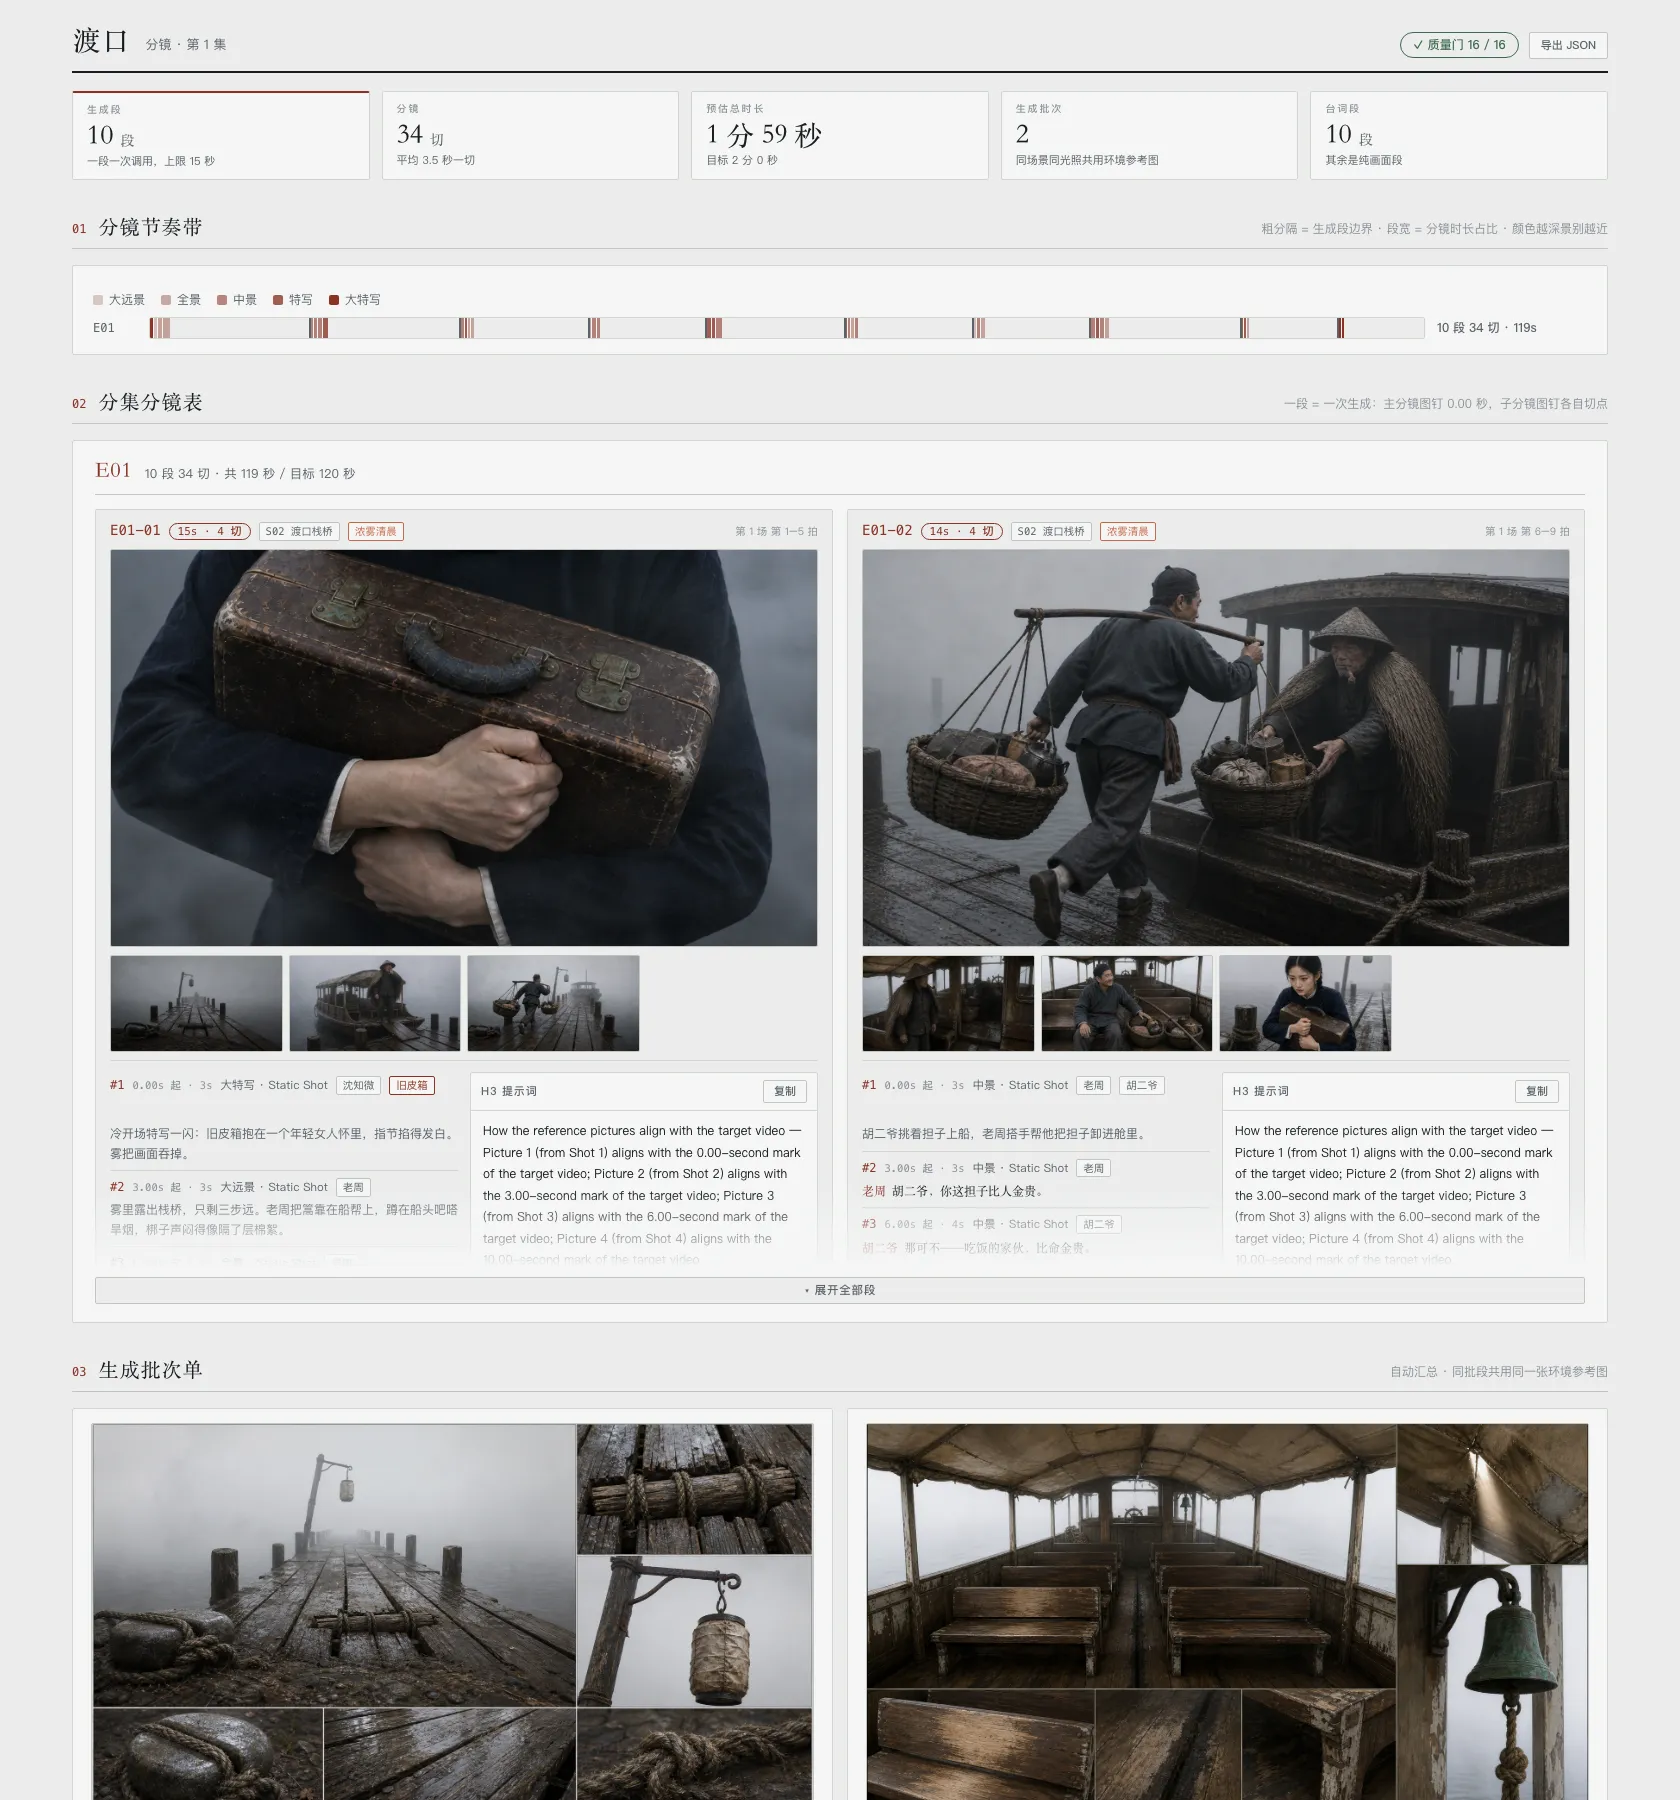
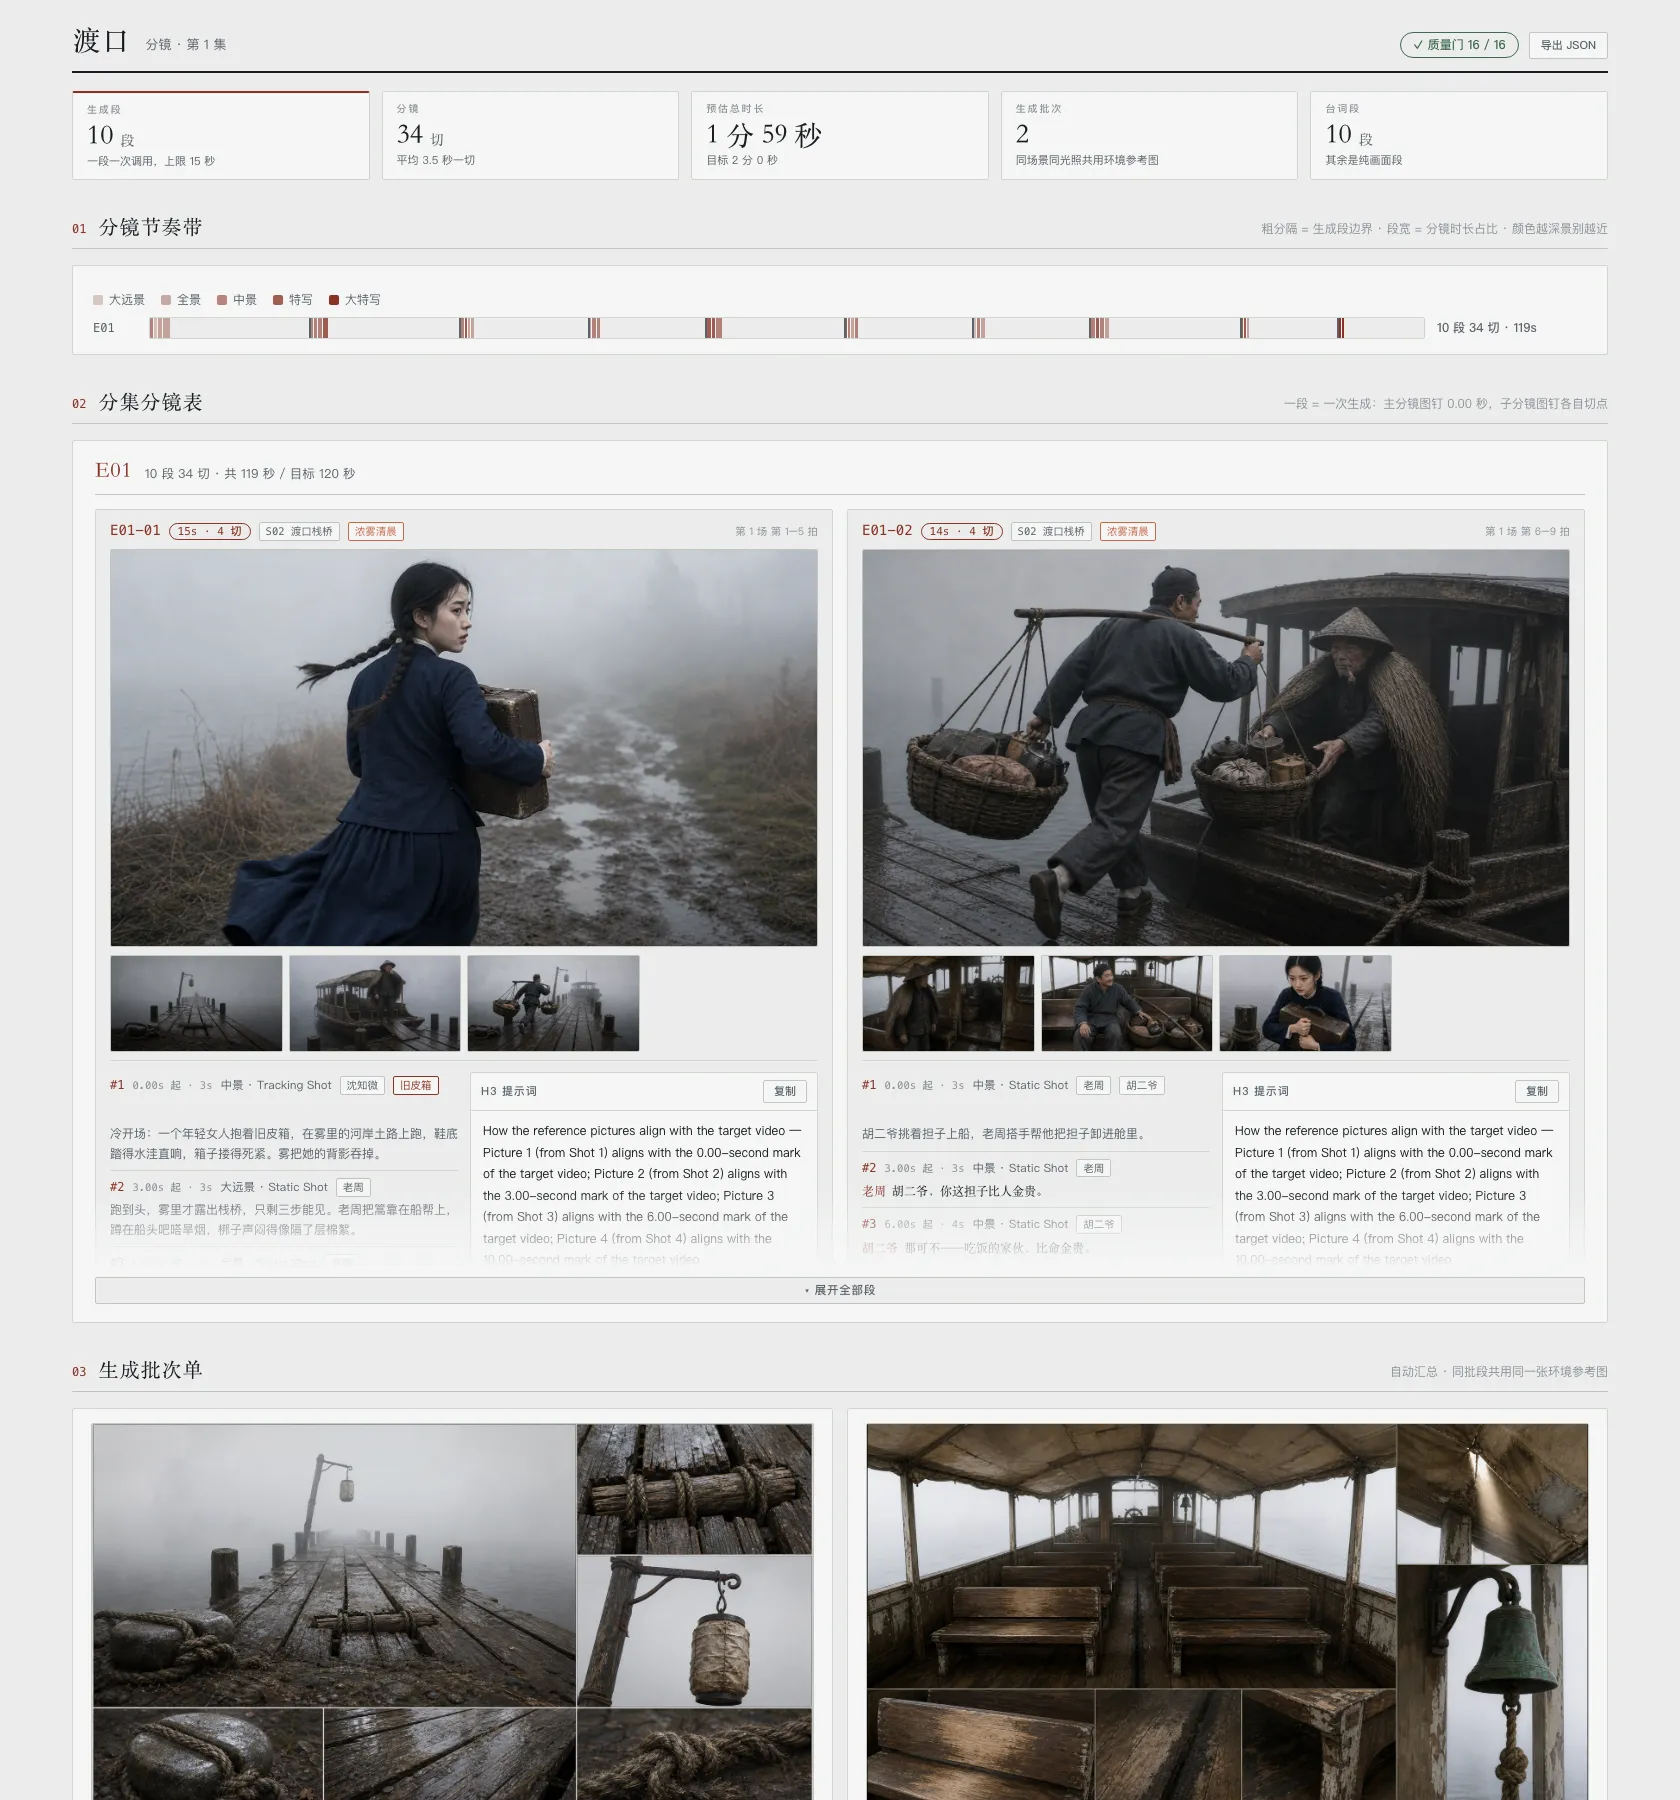
fix(novel-script,novel-storyboard): 冷开场要在运动中给 + 改一拍连读三拍
报告人审时发现的两个问题，都落成了写作纪律：

- 静物特写开场是死画面（旧皮箱抱在怀里、指节掐白），第一秒没有运动，
  竖屏观众划走的就是这一秒。规则改成钩子的具象必须带主体运动，静态
  细节特写留给第二落点；样例四处开场动起来（雾中抱箱奔跑、船身晃手
  攥紧、汽笛里猛按口袋、收篙转头），分镜第 1 切改跟拍、主分镜图重生成
- 单点修改引入的空间跳变：第 1 拍在岸路跑、第 2 拍却写栈桥才露出来。
  新增修改纪律「改一拍连读三拍」（查人物位置、道具在手、谁在场），
  分镜侧加「改切不读邻切」并要求图文逐格对照；样例已修成岸路 → 抵达
- 「有没有运动」是语义判断，关键词扫描两头漏，不做成门——误拦的门
  比没有门更糟

Changed region(s): [[0.0619, 0.28, 0.4952, 0.5289], [0.0619, 0.5911, 0.2476, 0.6844]]

diff --git a/skills/novel-script/references/script-pass.md b/skills/novel-script/references/script-pass.md
@@ -17,9 +17,14 @@
 
    判据：这个动作在生活视频里常见吗？**上船、坐下、递东西、点头、回头、抱紧、站起来**——放心写；**用工具挡住某物、微表情（睫毛颤）、以寸计的位移（收了半寸）、比喻性画面（像被雾攥住的茧）**——改写或删。戏剧信息靠常见动作的**组合与时机**给，不靠动作本身的精巧。
 5. **每场至少一个动作节拍。** 三句台词之间没有一个画面动作，就该问自己这场戏观众在看什么。
-6. **钩子不是标签，是第一拍。** 每集第 1 拍冷开场：先给钩子的具象一闪（皮箱特写、口袋里方硬的轮廓、四十年不开口的人嘴唇动了），再回正常叙事，`hookBeat` 认领它——门查位置，必须落在全集前 3 拍内。上一集的结尾悬念要在开场接住——接住不等于立刻解开。
+6. **钩子不是标签，是第一拍，而且要在运动中给。** 每集第 1 拍冷开场：钩子的具象必须带主体运动——**✗ 静物特写一闪（旧皮箱抱在怀里，指节掐白）✓ 抱着旧皮箱在雾里跑**。奔跑、追赶、挣脱、猛地按住，都行；静态细节特写（掐白的指节、口袋的轮廓）留给第二落点兑现（登船、开箱）。`hookBeat` 认领它——门查位置，必须落在全集前 3 拍内；有没有运动是写作纪律，门查不了。上一集的结尾悬念要在开场接住——接住不等于立刻解开。
 7. **结尾最后一拍必须是悬念。** 一句没说完的话、一个没解释的动作、一声来历不明的响。`cliff` 字段写效果说明，戏里落成具体的一拍。
 8. **认领的爽点要有戏扛。** `beatsClaimed` 里的每个爆点，这一集里必须有一段连续节拍在兑现它——爆点是演出来的，不是梗概里说说。
+
+## 修改纪律（错误最常从单点修改混进来）
+
+- **改一拍，连读三拍。** 任何节拍改动后，把前后各一拍连起来重读一遍，专查三样：**人物位置**（上一拍还在岸路，下一拍不能已经在栈桥上）、**道具在手状态**、**谁在场**。写作时空间状态在你脑子里，改的时候它不在——连读是把状态找回来的唯一办法。
+- **改画面，带声景。** 剧本动作一改，下游分镜的描述、声景、分镜图三处要一起动（分镜 skill 的教训，源头在剧本这层就要有意识）。
 
 ## 手感规则（不设门，但决定戏好不好看）
 
@@ -35,6 +40,8 @@
 | --- | --- | --- |
 | 广播剧 | 整场只有台词 | 每两三句台词之间插一拍画面动作 |
 | 文学病 | 动作写成美文：伸篙一挡、睫毛颤、退了半寸 | 换成常见动作，判据表见硬规则 4 |
+| 开场死画面 | 第一拍是静物特写 | 同一具象换成运动中给（抱箱在雾中跑），静帧挪到第二次出现 |
+| 空间跳变 | 上一拍在岸路跑，下一拍写栈桥才露出来——或反过来 | 改一拍连读三拍；人物位置是连续状态，跳变必须有走过去的拍 |
 | 注水 | 寒暄、让茶、问路占了半集 | 删。每一拍要么推进剧情要么翻转关系 |
 | 演讲癖 | 一个人连说四句 | 拆给对手，或用动作打断 |
 | 全知病 | 台词把信息说尽 | 信息藏进动作和 delivery，台词只说三分 |

diff --git a/skills/novel-storyboard/references/storyboard-pass.md b/skills/novel-storyboard/references/storyboard-pass.md
@@ -20,7 +20,7 @@
 
 - **3 秒一切是短剧的呼吸。** 竖屏观众的注意力就这个粒度——切快了信息断，切慢了人走。节奏带上应该深浅相间、长短相间。
 - **对话切正反打。** 问话给问话人的近景，答话切答话人的近景，来回跳；谁的台词信息量大，谁的脸给得近。同一段里解决，一次生成。
-- **进场三件套。** 新空间的第一段：大远景定场 → 人物中景 → 关键局部特写。观众三秒内知道在哪、谁在、看什么。
+- **进场三件套，第一切给运动主体。** 每集第一切必须有主体运动（跟拍雾中奔跑，或固定机位里的人在动）——静物特写开场是死画面，留给第二落点。新空间随后再定场：运动主体 → 大远景定场 → 关键局部特写。观众三秒内知道谁在动、在哪、看什么。
 - **关键动作独立成切。**「她一把按住箱盖」这种拍值得单独一格 2 秒的特写插入（insert）——它是节奏的重音。
 - **反应镜头是免费的戏。** 一句重台词之后，切听者的脸 2–3 秒，不用写词。VO 盖空镜或特写，天然省口型。
 - **动接动。** 上一切结尾的动势（手伸向箱子）接下一切开头的动势（手被按住），段内连贯性交给 H3，切点选在动作中间而不是动作完成后。
@@ -48,3 +48,4 @@
 | 声景漏改 | 画面改成搭手卸担，环境音还写着铜铃撞击 | **声景也是动作指令**——剧本动作一改，描述、声景、中文对照三处一起改（踩过：视频真把撞击演出来了） |
 | 特写失忆 | 大特写的道具和设定图长得不一样 | 挂道具设定图当参考，提示词提锚点特征 |
 | 换景不换段 | 一段里从栈桥切进船舱 | 换景必开新段——一段一个环境锚 |
+| 改切不读邻切 | 第 1 切改成岸路奔跑，第 2 切还写着栈桥才露出来，图却画在栈桥上 | 改一切连读前后切，分镜图和文字逐格对照——位置是连续状态 |

diff --git a/CHANGELOG.md b/CHANGELOG.md
@@ -1,5 +1,21 @@
 # Changelog
 
+## novel-script 1.1.1 · novel-storyboard 1.0.1 — 2026-08-14
+
+**冷开场要在运动中给**——报告人审时发现的问题：静物特写开场
+（旧皮箱抱在怀里，指节掐白）是死画面，第一秒没有运动，竖屏观众
+划走的就是这一秒。按三层约束落地：
+
+- **写作规则**（判不死的进规则）：script-pass.md 硬规则 6 扩写——
+  钩子的具象必须带主体运动（✗ 静物特写一闪 ✓ 抱着旧皮箱在雾里跑），
+  静态细节特写留给第二落点兑现；常见病表加「开场死画面」。
+  storyboard-pass.md 进场三件套改为第一切给运动主体
+- **样例即规范**（最强的软约束）：《渡口》四处开场动起来——E01 改成
+  雾中抱箱奔跑（分镜第 1 切同步改跟拍、主分镜图重生成、声景加跑步声），
+  E02 船身晃手攥紧、E03 汽笛里猛按口袋、E05 收篙转头
+- **门不动**：hookBeat 位置门照旧；「有没有运动」是语义判断，关键词
+  扫描两头漏，误拦的门比没有门更糟——门的信用比数量重要
+
 ## novel-storyboard 1.0.0 — 2026-08-13
 
 首个版本，管线最后一块：给 AI 短剧出**分镜**。前提刻在骨子里：
